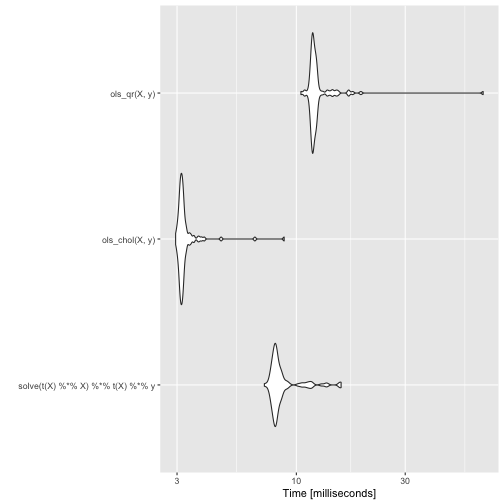
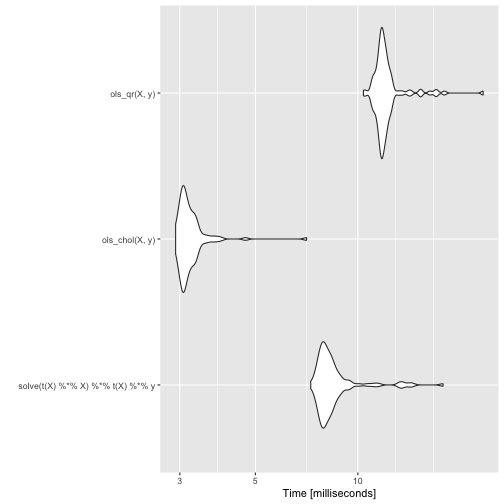
update

diff --git a/docs/lezioni/L04/LibroVsComputer.html b/docs/lezioni/L04/LibroVsComputer.html
@@ -6,6 +6,8 @@
     <meta name="author" content="Aldo Solari" />
     <link href="libs/remark-css-0.0.1/default.css" rel="stylesheet" />
     <link href="libs/remark-css-0.0.1/default-fonts.css" rel="stylesheet" />
+    <link href="libs/anchor-sections-1.0/anchor-sections.css" rel="stylesheet" />
+    <script src="libs/anchor-sections-1.0/anchor-sections.js"></script>
   </head>
   <body>
     <textarea id="source">
@@ -91,11 +93,11 @@ ms
 ```
 Unit: milliseconds
                                  expr      min       lq     mean   median
-     solve(t(X) %*% X) %*% t(X) %*% y 7.314035 7.898158 8.286544 8.077520
- solve(crossprod(X), crossprod(X, y)) 2.945594 3.110722 3.194557 3.166287
+     solve(t(X) %*% X) %*% t(X) %*% y 7.515607 8.086387 9.054039 8.323334
+ solve(crossprod(X), crossprod(X, y)) 3.081143 3.178645 3.305489 3.242446
        uq       max neval
- 8.359393 16.050011   100
- 3.267438  3.641133   100
+ 8.975729 29.061958   100
+ 3.354523  4.219635   100
 ```
 
 ---
@@ -294,10 +296,10 @@ La decomposizione QR (ridotta) prevede
 dove `\(Q\)` è una matrice ortogonale tale che `\(Q^\mathsf{T} Q = I\)`, ed `\(R\)` è una matrice triangolare superiore, quindi
 $$
 `\begin{aligned}
-X^\mathsf{T}X \beta= X^\mathsf{T} y\\
-R^\mathsf{T} Q^\mathsf{T} Q R = R^\mathsf{T} Q^\mathsf{T} y\\
-R^\mathsf{T} R = R^\mathsf{T} Q^\mathsf{T} y\\
- R =  Q^\mathsf{T} y\\
+X^\mathsf{T}X \beta &amp;= X^\mathsf{T} y\\
+R^\mathsf{T} Q^\mathsf{T} Q R \beta &amp;= R^\mathsf{T} Q^\mathsf{T} y\\
+R^\mathsf{T} R \beta &amp;= R^\mathsf{T} Q^\mathsf{T} y\\
+ R \beta &amp;=  Q^\mathsf{T} y\\
 \end{aligned}`
 $$
 

diff --git a/docs/lezioni/L04/libs/anchor-sections-1.0/anchor-sections.js b/docs/lezioni/L04/libs/anchor-sections-1.0/anchor-sections.js
@@ -1,0 +1,28 @@
+// Anchor sections v1.0 written by Atsushi Yasumoto on Oct 3rd, 2020.
+document.addEventListener('DOMContentLoaded', function() {
+  const h = document.querySelectorAll('h1, h2, h3, h4, h5, h6');
+
+  // Do nothing if sections are already anchored
+  if (Array.from(h).some(x => x.classList.contains('hasAnchor'))) {
+    return null;
+  }
+
+  // Use section id when pandoc runs with --section-divs
+  const section_id = function(x) {
+    return ((x.classList.contains('section') || (x.tagName === 'SECTION'))
+            ? x.id : '');
+  };
+
+  // Add anchors
+  h.forEach(function(x) {
+    const id = x.id || section_id(x.parentElement);
+    if (id === '') {
+      return null;
+    }
+    let anchor = document.createElement('a');
+    anchor.href = '#' + id;
+    anchor.classList = ['anchor-section'];
+    x.classList.add('hasAnchor');
+    x.appendChild(anchor);
+  });
+});

diff --git a/docs/lezioni/L04/libs/anchor-sections-1.0/anchor-sections.css b/docs/lezioni/L04/libs/anchor-sections-1.0/anchor-sections.css
@@ -1,0 +1,4 @@
+/* Styles for section anchors */
+a.anchor-section {margin-left: 10px; visibility: hidden; color: inherit;}
+a.anchor-section::before {content: '#';}
+.hasAnchor:hover a.anchor-section {visibility: visible;}
